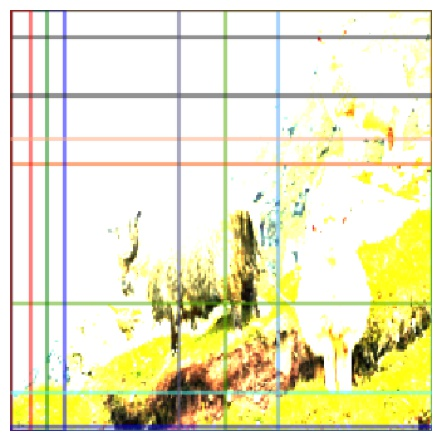
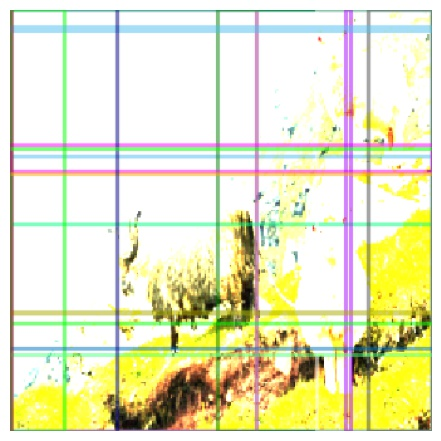
back to the old pool

diff --git a/examples/qlarifais_bounding_boxes.py b/examples/qlarifais_bounding_boxes.py
@@ -34,90 +34,91 @@ transform = transforms.Compose([transforms.PILToTensor()])
 
 if __name__ == "__main__":
     # getting configs
-    config_path = 'mmexp/methods/bounding_boxes/up-down_not_norm.yaml'
+    config_path = 'mmexp/methods/bounding_boxes/dc5_50_not_norm.yaml'
     config = OmegaConf.load(os.path.dirname(os.getcwd()) + "/" + config_path)
 
     # loading images
-    general_path = "/imgs/protocol/"
-    image_file_names = ["sheep.jpg"]  # , "sheep.jpg"]
+    #general_path = "/imgs/temp/giraffe"
+    general_path = "/imgs/temp/"
+
+    image_file_names = ["sheep"]  # , "sheep.jpg"]
 
     # building image processor
     processors = build_processors(config.dataset_config.okvqa.processors)
     image_processor = processors['image_processor']
 
-    image_path = os.path.dirname(os.getcwd()) + general_path
-
     # loading image
     #original_images = []
-    processed_images = []
     height, width = (224, 224)
-
-    '''
+    processed_images = []
     for file_name in image_file_names:
         # path to image
-        image_path = os.path.dirname(os.getcwd()) + general_path + file_name
-        
+        image_path = os.path.dirname(os.getcwd()) + general_path + f"{file_name}/{file_name}.jpg"
+
+        '''
         # the original image
-        #img = cv2.imread(os.path.dirname(image_path)
-        #img = cv2.resize(img, (256, 256), interpolation=cv2.INTER_LINEAR)
+        img = cv2.imread(os.path.dirname(image_path)
+        img = cv2.resize(img, (256, 256), interpolation=cv2.INTER_LINEAR)
         # cropping img to 224, 224
-        #img = img[16:240, 16:240]
+        img = img[16:240, 16:240]
         #original_images.append(img[:, :, ::-1])
-        
+        '''
+
         # using the processor
         processed_image = image_processor({'image': openImage(image_path)})
         # loads the desired BGR
         # img = torch.as_tensor(img.astype("float32").transpose(2, 0, 1)) # correct shape
-        processed_images.append(processed_image)
+        processed_images.append([processed_image])
 
-    '''
+
 
     image_encoder = config.get("image_encoder", False)
     # building image encoder if defined
-    #if image_encoder:
-    vision_module = build_image_encoder(image_encoder)
-    vision_module.grid_feats_vqa.eval()
+    if image_encoder:
+        vision_module = build_image_encoder(image_encoder)
+        vision_module.grid_feats_vqa.eval()
+        #image_path = os.path.dirname(os.getcwd()) + general_path
+        #data_loader = build_detection_test_loader_for_images(vision_module.cfg, image_path+image_files[0])
 
-    data_loader = build_detection_test_loader_for_images(vision_module.cfg, image_path)
+        #for idx, inputs in enumerate(tqdm.tqdm(data_loader)):
+        for idx, inputs in enumerate(processed_images):
+            #inputs = [{"image": image}]
+            images = vision_module.grid_feats_vqa.preprocess_image(inputs)
+            features = vision_module.grid_feats_vqa.backbone(images.tensor)
+            proposals, _ = vision_module.grid_feats_vqa.proposal_generator(images, features)
+            # pooled features and box predictions
+            box_features, pooled_features_fc7, pooled_features_fc6 = vision_module.grid_feats_vqa.roi_heads.get_roi_features(
+                features, proposals)
+            print('the pooled', pooled_features_fc7.shape)
+            predictions = vision_module.grid_feats_vqa.roi_heads.box_predictor(pooled_features_fc7)
+            # predictions, r_indices = vision_module.grid_feats_vqa.roi_heads.box_predictor(box_features)
+            predictions, r_indices = vision_module.grid_feats_vqa.roi_heads.box_predictor.inference(predictions, proposals)
+            # print(r_indices[0].shape)
+            box_type = type(proposals[0].proposal_boxes)
+            proposal_bboxes = box_type.cat([p.proposal_boxes for p in proposals])
+            proposal_bboxes.tensor = proposal_bboxes.tensor[r_indices]
+            predictions[0].set("proposal_boxes", proposal_bboxes)
+            r = postprocessing.detector_postprocess(predictions[0], height, width)
+            bboxes = r.get("proposal_boxes").tensor
+            print('after processing', bboxes.shape)
 
-    for idx, inputs in enumerate(tqdm.tqdm(data_loader)):
-        #image_id = inputs[0]["image_id"]
-
-        # inputs = [{"image": image} for image in images]
-        images = vision_module.grid_feats_vqa.preprocess_image(inputs)
-        features = vision_module.grid_feats_vqa.backbone(images.tensor)
-        proposals, _ = vision_module.grid_feats_vqa.proposal_generator(images, features)
-        # pooled features and box predictions
-        box_features, pooled_features_fc7, pooled_features_fc6 = vision_module.grid_feats_vqa.roi_heads.get_roi_features(
-            features, proposals)
-        print('the pooled', pooled_features_fc7.shape)
-        predictions = vision_module.grid_feats_vqa.roi_heads.box_predictor(pooled_features_fc7)
-        # predictions, r_indices = vision_module.grid_feats_vqa.roi_heads.box_predictor(box_features)
-        predictions, r_indices = vision_module.grid_feats_vqa.roi_heads.box_predictor.inference(predictions, proposals)
-        # print(r_indices[0].shape)
-        box_type = type(proposals[0].proposal_boxes)
-        proposal_bboxes = box_type.cat([p.proposal_boxes for p in proposals])
-        proposal_bboxes.tensor = proposal_bboxes.tensor[r_indices]
-        predictions[0].set("proposal_boxes", proposal_bboxes)
-        r = postprocessing.detector_postprocess(predictions[0], height, width)
-        bboxes = r.get("proposal_boxes").tensor
-        print('after processing', bboxes.shape)
-
-        # use the full model
-        outputs = vision_module.grid_feats_vqa(processed_images)
-        print('from outputs:', outputs[0]["instances"])
+            # use the full model, this produces similar results
+            #outputs = vision_module.grid_feats_vqa(inputs)
+            #print('from outputs:', outputs[0]["instances"])
 
 
     for idx, img in enumerate(processed_images):
-        img = processed_images[idx]['image'].permute(1, 2, 0) # correct shape
+    #for idx, inputs in enumerate(tqdm.tqdm(data_loader)):
+        img = processed_images[0][idx]['image'].permute(1, 2, 0) # correct shape
+        #img = inputs[0]['image']
         img = img[:,:,[2, 1, 0]] # BGR to RGB
         # splitting non-characters and finding config file name
         exp_name = re.split('\W+', config_path)[-2]
         # image name
-        v = Visualizer(img, None, scale = 1.5)
+        v = Visualizer(img, None, scale=1.5)
         if image_encoder:
-            v = v.overlay_instances(boxes=outputs[0]["instances"].pred_boxes) # simply the same?
-            #v = v.overlay_instances(boxes=bboxes) # originally by grid-feats
+            #v = v.overlay_instances(boxes=outputs[0]["instances"].pred_boxes) # simply the same?
+            v = v.overlay_instances(boxes=bboxes) # originally by grid-feats
             plot_img = v.get_image()
         else:
             plot_img = np.asarray(img).clip(0, 255).astype(np.uint8)
@@ -127,7 +128,7 @@ if __name__ == "__main__":
         mpl.rcParams['figure.dpi'] = 300
         plt.tight_layout()
         plt.axis('off')
-        plt.savefig(f'{os.path.dirname(os.getcwd())}/mmexp/methods/bounding_boxes/imgs/{exp_name}_{image_file_names[idx]}', bbox_inches='tight')
+        plt.savefig(f'{os.path.dirname(os.getcwd())}/mmexp/methods/bounding_boxes/imgs/{exp_name}_{image_file_names[idx]}.jpg', bbox_inches='tight')
         plt.show(bbox_inches='tight')
 
 

diff --git a/mmf/mmf/utils/roi_heads.py b/mmf/mmf/utils/roi_heads.py
@@ -11,7 +11,10 @@ from typing import List, Optional
 import torch
 from torch import nn
 from torch.nn import functional as F
+from types import SimpleNamespace
 
+
+from detectron2.config import global_cfg
 from detectron2.config import configurable
 from detectron2.layers import ShapeSpec
 from detectron2.modeling.roi_heads import (
@@ -124,12 +127,35 @@ class AttributeRes5ROIHeads(AttributeROIHeads, Res5ROIHeads):
     """
     An extension of Res5ROIHeads to include attribute prediction.
     """
-    def __init__(self, cfg, input_shape):
-        super(Res5ROIHeads, self).__init__(cfg, input_shape)
 
+    @configurable
+    def __init__(
+        self,
+        *,
+        in_features: List[str],
+        pooler: ROIPooler,
+        res5: nn.Module,
+        box_predictor: nn.Module,
+        mask_head: Optional[nn.Module] = None,
+        **kwargs,
+    ):
+
+        super(Res5ROIHeads, self).__init__(**kwargs)
+        self.in_features = in_features
+        self.pooler = pooler
+        if isinstance(res5, (list, tuple)):
+            res5 = nn.Sequential(*res5)
+        self.res5 = res5
+        self.box_predictor = box_predictor
+        self.mask_on = mask_head is not None
+        if self.mask_on:
+            self.mask_head = mask_head
+        '''
+        cfg = SimpleNamespace(**kwargs)
+        # fmt: off
+        self.in_features = in_features
         assert len(self.in_features) == 1
 
-        # fmt: off
         pooler_resolution = cfg.MODEL.ROI_BOX_HEAD.POOLER_RESOLUTION
         pooler_type       = cfg.MODEL.ROI_BOX_HEAD.POOLER_TYPE
         pooler_scales     = (1.0 / input_shape[self.in_features[0]].stride, )
@@ -138,6 +164,7 @@ class AttributeRes5ROIHeads(AttributeROIHeads, Res5ROIHeads):
         self.attribute_on = cfg.MODEL.ATTRIBUTE_ON
         # fmt: on
         assert not cfg.MODEL.KEYPOINT_ON
+        assert len(self.in_features) == 1
 
         self.pooler = ROIPooler(
             output_size=pooler_resolution,
@@ -159,6 +186,15 @@ class AttributeRes5ROIHeads(AttributeROIHeads, Res5ROIHeads):
 
         if self.attribute_on:
             self.attribute_predictor = AttributePredictor(cfg, out_channels)
+        '''
+
+    '''
+    @classmethod
+    def from_config(cls, cfg, input_shape):
+        ret = super().from_config(cfg, input_shape)
+        #ret["attribute_on"] = cfg.MODEL.ATTRIBUTE_ON
+        return ret
+    '''
 
     def forward(self, images, features, proposals, targets=None):
         del images

diff --git a/mmf/mmf/modules/encoders.py b/mmf/mmf/modules/encoders.py
@@ -249,6 +249,8 @@ class ImageEncoderFactory(EncoderFactory):
             self.module = FRCNNImageEncoder(params)
         elif self._type == "grid_feats_vqa":
             self.module = gfvqaImageEncoder(params)
+        elif self._type == "torchvision_frcnn50fpn":
+            self.module = TorchvisionFRCNN50FPNEncoder(params)
         else:
             raise NotImplementedError("Unknown Image Encoder: %s" % self._type)
 
@@ -258,6 +260,34 @@ class ImageEncoderFactory(EncoderFactory):
 
     def forward(self, image):
         return self.module(image)
+
+
+# Taken from facebookresearch/mmbt with some modifications
+@registry.register_encoder("resnet152")
+class ResNet152ImageEncoder(Encoder):
+    @dataclass
+    class Config(Encoder.Config):
+        name: str = "resnet152"
+        pretrained: bool = True
+        # "avg" or "adaptive"
+        pool_type: str = "avg"
+        num_output_features: int = 1
+
+    def __init__(self, config: Config, *args, **kwargs):
+        super().__init__()
+        self.config = config
+        model = torchvision.models.resnet152(pretrained=config.get("pretrained", True))
+        modules = list(model.children())[:-2]
+        self.model = nn.Sequential(*modules)
+
+
+    def forward(self, x):
+        # Bx3x224x224 -> Bx2048x7x7 -> Bx2048xN -> BxNx2048
+        out = self.pool(self.model(x))
+        out = torch.flatten(out, start_dim=2)
+        out = out.transpose(1, 2).contiguous()
+        return out  # BxNx2048
+
 
 
 # Taken from facebookresearch/mmbt with some modifications
@@ -564,7 +594,7 @@ class gfvqaImageEncoder(Encoder):
         # set seed
         cfg.SEED = self.global_config.training.seed
         # test different thresholds (default: 0.05)
-        #self.cfg.MODEL.ROI_HEADS.SCORE_THRESH_TEST = 0.005
+        #cfg.MODEL.ROI_HEADS.SCORE_THRESH_TEST = 0.005
         # saving config and logs
         #default_setup(cfg, args) #https://github.com/facebookresearch/detectron2/blob/main/detectron2/engine/defaults.py
         return cfg

diff --git a/mmf/mmf/utils/build.py b/mmf/mmf/utils/build.py
@@ -10,6 +10,7 @@ import copy
 import mmf
 import pytorch_lightning as pl
 import torch
+import numpy as np
 from mmf.common.meter import Meter
 from mmf.common.registry import registry
 from mmf.datasets.iteration_strategies import (
@@ -251,6 +252,19 @@ class TestDatasetMapper(DatasetMapper):
     def __init__(self, cfg, is_train=False):
         super().__init__(cfg, is_train)
 
+        if cfg.INPUT.CROP.ENABLED and is_train:
+            self.crop_gen = T.RandomCrop(cfg.INPUT.CROP.TYPE, cfg.INPUT.CROP.SIZE)
+            logging.getLogger(__name__).info("CropGen used in training: " + str(self.crop_gen))
+        else:
+            self.crop_gen = None
+
+        self.tfm_gens = utils.build_transform_gen(cfg, is_train)
+
+        # fmt: off
+        self.img_format     = cfg.INPUT.FORMAT
+        self.mask_on        = cfg.MODEL.MASK_ON
+
+
     def __call__(self, dataset_dict):
         dataset_dict = copy.deepcopy(dataset_dict)
         try:
@@ -287,10 +301,7 @@ class TestDatasetMapper(DatasetMapper):
 def build_detection_test_loader_for_images(cfg, dataset_path, mapper=None):
     # building similar to: https://github.com/facebookresearch/grid-feats-vqa
     image_list = glob.glob(os.path.join(dataset_path, "*.jpg"))
-    dataset_dicts = [
-        {"file_name": x, "image_id": os.path.splitext(os.path.basename(x))[0]}
-        for x in image_list
-    ]
+    dataset_dicts = [{"file_name": x, "image_id": os.path.splitext(os.path.basename(x))[0]} for x in image_list]
 
     dataset = DatasetFromList(dataset_dicts)
     if mapper is None:

diff --git a/mmf/mmf/models/qlarifais.py b/mmf/mmf/models/qlarifais.py
@@ -122,9 +122,9 @@ class Qlarifais(BaseModel):
         else:
             if self.config.image_encoder.resize == 'average_pooling':
                 # average pooling of K features of size 2048
-                denominator = (image_features.isnan() == False).sum(1)
-                image_features = (torch.nan_to_num(image_features, nan=0).sum(axis=1) / denominator).squeeze() # [batch_size, i_dim]
-
+                #denominator = (image_features.isnan() == False).sum(1)
+                #image_features = (torch.nan_to_num(image_features, nan=0).sum(axis=1) / denominator).squeeze() # [batch_size, i_dim]
+                image_features = image_features.sum(dim=1)
 
                 # NOT WORKING!!!
                 # torch.from_numpy(np.nanmean(torch.nan_to_num(image_features, neginf=np.nan).detach().cpu(), axis=1)).to(get_current_device())

diff --git a/mmf/mmf_cli/run.py b/mmf/mmf_cli/run.py
@@ -8,7 +8,7 @@ import os
 # ------------------------
 # TO DEBUG
 # info: when debugging, also set working directory to explainableVQA/mmf/
-#sys.path.insert(0, os.path.dirname(os.getcwd()) + '/mmf')
+sys.path.insert(0, os.path.dirname(os.getcwd()) + '/mmf')
 # ------------------------
 
 import argparse
@@ -151,7 +151,7 @@ def run(opts: typing.Optional[typing.List[str]] = None, predict: bool = False):
 
 if __name__ == "__main__":
     cmd = False
-    #cmd = 'config=configs/experiments/ablation2/graph_ama.yaml model=qlarifais dataset=okvqa run_type=train_val'
+    cmd = 'config=configs/experiments/baseline/ama.yaml model=qlarifais dataset=okvqa run_type=train_val'
     if cmd is not False:
         opts = cmd.split(' ')
         run(opts)
